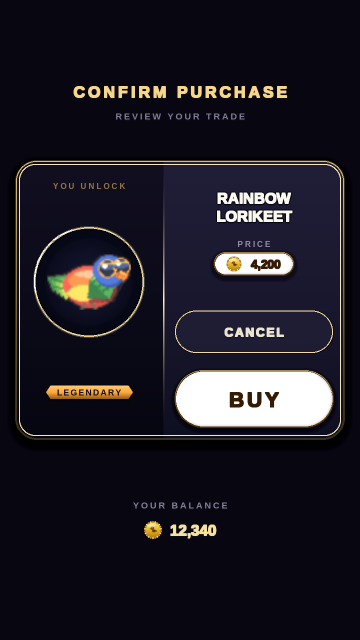
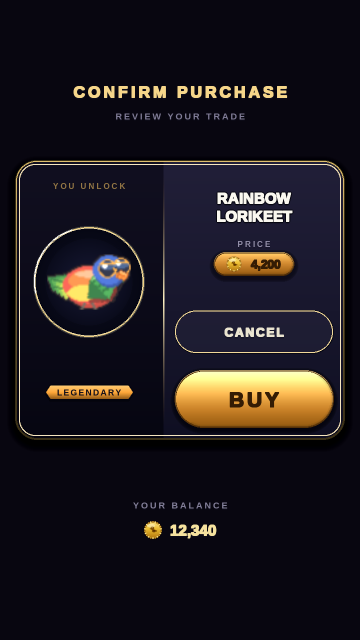
design: update split-deal-card r1 render + ticket-stub r2 script

Changed region(s): [[0.4889, 0.5625, 0.9472, 0.6875], [0.5806, 0.375, 0.825, 0.4375]]

diff --git a/scratchpad/ticket_stub_r2.py b/scratchpad/ticket_stub_r2.py
@@ -1,0 +1,199 @@
+import os
+os.environ["SDL_VIDEODRIVER"] = "dummy"
+os.environ["SDL_AUDIODRIVER"] = "dummy"
+import sys
+sys.path.insert(0, "/home/user/skybit")
+import pygame
+import math
+pygame.init()
+pygame.display.set_mode((1, 1))
+
+from game import store_cards as sc
+from game.store_cards import (
+    m, mf, font, SS, RARITY, cabochon, cabochon_glass, blit_thumb,
+    _ribbon, _name_on, state_chip, price_chip, soft_glow, drop_shadow,
+    vgrad_stops, gold_a_fill, plain_text, _glyph_base, gloss_sweep,
+    bevel_rim, CARD_RING_BRIGHT, CARD_RING_DEEP, GOLD_A_STOPS,
+    GOLD_A_RIM_DARK, GOLD_A_RIM_BRIGHT, R_DISC,
+)
+from game.draw import lerp_color, NEAR_BLACK, WHITE
+
+SID = "skin_lorikeet"
+TIER = "legendary"
+NAME = "RAINBOW LORIKEET"
+
+# Logical (1x) screen; author at SS then one smoothscale down for crisp edges.
+SCR_W, SCR_H = 360, 640
+BG = (8, 6, 16)
+SLIP_BG_T = (24, 22, 40)      # slight sheen top
+SLIP_BG_B = (18, 16, 30)      # deep navy-obsidian body
+pal = RARITY[TIER]
+
+big = pygame.Surface((SCR_W * SS, SCR_H * SS), pygame.SRCALPHA)
+big.fill((*BG, 255))
+
+# A soft vignette + a faint tier aura pooling behind the slip so the deep
+# obsidian ground doesn't read dead-flat.
+soft_glow(big, m(180), m(300), m(210), pal["glow"], 12, layers=10)
+
+# ── slip geometry ──────────────────────────────────────────────────────────
+SLIP_W, SLIP_H = 280, 480
+slip_cx, slip_cy = 180, 320
+sx = slip_cx - SLIP_W // 2
+sy = slip_cy - SLIP_H // 2
+srect = pygame.Rect(m(sx), m(sy), m(SLIP_W), m(SLIP_H))
+RAD = m(18)
+
+# Depth: soft cast shadow so the slip sits above the obsidian.
+drop_shadow(big, srect, RAD, blur=m(10), alpha=170, dy=m(6))
+
+# Slip body — slightly lighter than screen, faint vertical sheen.
+body = vgrad_stops(srect.w, srect.h, RAD, [(0.0, SLIP_BG_T), (1.0, SLIP_BG_B)],
+                   255, gamma=1.1)
+big.blit(body, srect.topleft)
+
+# Gold double-bezel border: dark contact keyline under a bright top-left bevel.
+pygame.draw.rect(big, (4, 5, 14), srect, width=max(1, m(2)), border_radius=RAD)
+bevel_rim(big, srect, RAD, CARD_RING_DEEP, (*CARD_RING_BRIGHT, 235), w=max(1, m(2.2)))
+# Fine inner gold hairline = the second bezel lane.
+inset = srect.inflate(-m(7), -m(7))
+pygame.draw.rect(big, (*CARD_RING_BRIGHT, 95), inset, width=max(1, m(1)),
+                 border_radius=RAD - m(4))
+
+# ── perforation tear line — the hero graphic ─────────────────────────────────
+# Pulled up to 50% of slip height so the item block above the tear no longer
+# floats over an empty band; negative space now reads balanced on both stubs.
+perf_y = sy + int(SLIP_H * 0.50)          # logical y of the tear line
+py = m(perf_y)
+dot_r = m(3)                               # ~6px diameter
+spacing = m(12)
+x0 = srect.x + m(10)
+x1 = srect.right - m(10)
+# faint shadow lane 1px below + highlight lane 1px above
+pygame.draw.line(big, (0, 0, 0, 60), (x0, py + m(1)), (x1, py + m(1)), max(1, m(1)))
+pygame.draw.line(big, (255, 246, 220, 55), (x0, py - m(1)), (x1, py - m(1)), max(1, m(1)))
+x = x0 + dot_r
+i = 0
+while x <= x1 - dot_r:
+    # Brighter interior dots (~15% lift) so the tear reads crisp against navy.
+    a = 230 if (i % 2 == 0) else 150
+    dot = pygame.Surface((dot_r * 2 + m(2), dot_r * 2 + m(2)), pygame.SRCALPHA)
+    # Punch the perforation as a "hole": a dark core ringed by a thin light lip
+    # so it reads as a stamped tear-hole, not just a printed dot.
+    pygame.draw.circle(dot, (6, 5, 12, a), (dot_r + m(1), dot_r + m(1)), dot_r)
+    pygame.draw.circle(dot, (255, 248, 224, min(255, a)), (dot_r + m(1), dot_r + m(1)),
+                       dot_r, max(1, m(0.6)))
+    big.blit(dot, (x - dot_r - m(1), py - dot_r - m(1)))
+    x += spacing
+    i += 1
+
+# Half-circle tear bites carved into the LEFT and RIGHT silhouette edges on the
+# perf row, so the outer shape itself shows the affordance to tear the stub.
+# Sample the ground just outside each edge and refill the bite with it, so the
+# carve reveals the true background (aura + vignette), not a flat black disc.
+notch_r = m(8)
+for edge_x, arc_lo, arc_hi in ((srect.x, -math.pi / 2, math.pi / 2),
+                               (srect.right, math.pi / 2, 3 * math.pi / 2)):
+    probe = m(sx - 7) if edge_x == srect.x else m(sx + SLIP_W + 7)
+    bgcol = big.get_at((probe, py))
+    pygame.draw.circle(big, bgcol, (edge_x, py), notch_r)
+    # Dark contact keyline on the inner arc + a faint gold bevel lip catching
+    # the same light as the slip border, selling the torn edge.
+    rr = pygame.Rect(edge_x - notch_r, py - notch_r, notch_r * 2, notch_r * 2)
+    pygame.draw.arc(big, (4, 5, 14), rr, arc_lo, arc_hi, max(1, m(1.6)))
+    lip = rr.inflate(-m(1.4), -m(1.4))
+    pygame.draw.arc(big, (*CARD_RING_BRIGHT, 150), lip, arc_lo, arc_hi, max(1, m(1)))
+
+# ── TOP STUB (item) ──────────────────────────────────────────────────────────
+DISC_R = 58
+disc_cx = slip_cx
+# Nudged down a touch so the top margin balances against the (now higher) tear.
+disc_cy = sy + 86
+dcx, dcy = m(disc_cx), m(disc_cy)
+# Tier aura behind the cabochon so the legendary skin reads as the hero.
+soft_glow(big, dcx, dcy, m(DISC_R + 8), pal["glow"], 44, layers=10)
+cabochon(big, dcx, dcy, m(DISC_R), sc.CABO_LO, sc.CABO_HI, ring=pal["gem"], ring_a=50)
+blit_thumb(big, SID, dcx, dcy, m(DISC_R) * 1.5)
+cabochon_glass(big, dcx, dcy, m(DISC_R), tint=pal["gem"])
+
+# Tier ribbon below the disc, then the item name below the ribbon.
+ribbon_cy = disc_cy + DISC_R + 26
+_ribbon(big, TIER.upper(), m(slip_cx), m(ribbon_cy), m(SLIP_W - 60), pal)
+name_cy = ribbon_cy + 30
+_name_on(big, NAME, m(slip_cx), m(name_cy), m(SLIP_W - 44))
+
+# ── BOTTOM STUB (payment + decision) ─────────────────────────────────────────
+# "TOTAL DUE" tally caption above the price — firmer size + brighter slate so it
+# holds as a receipt label rather than dissolving into the body.
+cap_f = font(10)
+plain_text(big, "TOTAL DUE", cap_f, (m(slip_cx), m(perf_y + 32)),
+           (190, 196, 216), shadow_a=0, tracking=m(1.8), weight=m(0.7))
+price_chip(big, m(slip_cx), m(perf_y + 60), "12,500", m(26))
+
+
+def crown_gloss(surf, rect, radius, peak, band=0.34):
+    """A restrained specular confined to the top band only, so the pill body
+    keeps its gold ramp instead of blowing to white at centre."""
+    sweep = pygame.Surface(rect.size, pygame.SRCALPHA)
+    bh = max(1, int(rect.h * band))
+    for y in range(rect.h):
+        a = int(peak * (1 - y / bh) ** 2.2) if y < bh else 0
+        if a > 0:
+            pygame.draw.line(sweep, (255, 255, 255, a), (0, y), (rect.w, y))
+    mask = pygame.Surface(rect.size, pygame.SRCALPHA)
+    pygame.draw.rect(mask, (255, 255, 255, 255), mask.get_rect(), border_radius=radius)
+    sweep.blit(mask, (0, 0), special_flags=pygame.BLEND_RGBA_MIN)
+    surf.blit(sweep, rect.topleft, special_flags=pygame.BLEND_ADD)
+
+
+# Gold BUY pill spanning ~75% slip width, ~20px above slip bottom.
+buy_w = int(SLIP_W * 0.75)
+buy_h = 58
+buy_cx = slip_cx
+buy_bottom = sy + SLIP_H - 20
+# CANCEL raised to a comfortable 46px tall (was 38) so it clears the 44px touch
+# floor visually; BUY re-stacked above it with a clear 12px gap.
+cancel_h = 46
+cancel_cy = buy_bottom - cancel_h // 2
+GAP = 12
+buy_cy = cancel_cy - cancel_h // 2 - GAP - buy_h // 2
+
+buy_rect = pygame.Rect(m(buy_cx - buy_w // 2), m(buy_cy - buy_h // 2),
+                       m(buy_w), m(buy_h))
+brad = buy_rect.h // 2
+drop_shadow(big, buy_rect, brad, blur=m(5), alpha=120, dy=m(3))
+big.blit(gold_a_fill(buy_rect.w, buy_rect.h, brad), buy_rect.topleft)
+crown_gloss(big, buy_rect, brad, peak=50, band=0.34)
+pygame.draw.rect(big, GOLD_A_RIM_DARK, buy_rect, width=max(1, m(1.8)), border_radius=brad)
+bevel_rim(big, buy_rect, brad, GOLD_A_RIM_DARK, (*GOLD_A_RIM_BRIGHT, 235), w=max(1, m(1.6)))
+buy_f = font(19)
+plain_text(big, "BUY", buy_f, buy_rect.center, (52, 28, 4), shadow_a=0,
+           tracking=m(2), weight=m(1.1))
+
+# Ghost CANCEL pill — visible keyline, ample hit rect, restrained fill.
+cancel_w = int(SLIP_W * 0.5)
+cancel_rect = pygame.Rect(m(buy_cx - cancel_w // 2), m(cancel_cy - cancel_h // 2),
+                          m(cancel_w), m(cancel_h))
+crad = cancel_rect.h // 2
+ghost = pygame.Surface(cancel_rect.size, pygame.SRCALPHA)
+pygame.draw.rect(ghost, (255, 255, 255, 16), ghost.get_rect(), border_radius=crad)
+big.blit(ghost, cancel_rect.topleft)
+pygame.draw.rect(big, (196, 202, 224, 150), cancel_rect, width=max(1, m(1.4)),
+                 border_radius=crad)
+cancel_f = font(15)
+plain_text(big, "CANCEL", cancel_f, cancel_rect.center, (206, 212, 232),
+           shadow_a=0, tracking=m(1.4), weight=m(0.7))
+
+# ── downscale + save ─────────────────────────────────────────────────────────
+out = pygame.transform.smoothscale(big, (SCR_W, SCR_H))
+os.makedirs("/home/user/skybit/docs/confirm_purchase/ticket-stub", exist_ok=True)
+path = "/home/user/skybit/docs/confirm_purchase/ticket-stub/round_2.png"
+pygame.image.save(out, path)
+print("saved", path, out.get_size())
+
+# ── verification samples ─────────────────────────────────────────────────────
+buy_center_y = buy_cy               # logical center row of the BUY pill
+print("BUY center px:", out.get_at((slip_cx, buy_center_y)))
+print("BUY body-left px:", out.get_at((slip_cx - buy_w // 4, buy_center_y)))
+print("BUY crown px:", out.get_at((slip_cx, buy_cy - buy_h // 2 + 4)))
+print("CANCEL visual height px:", cancel_h)
